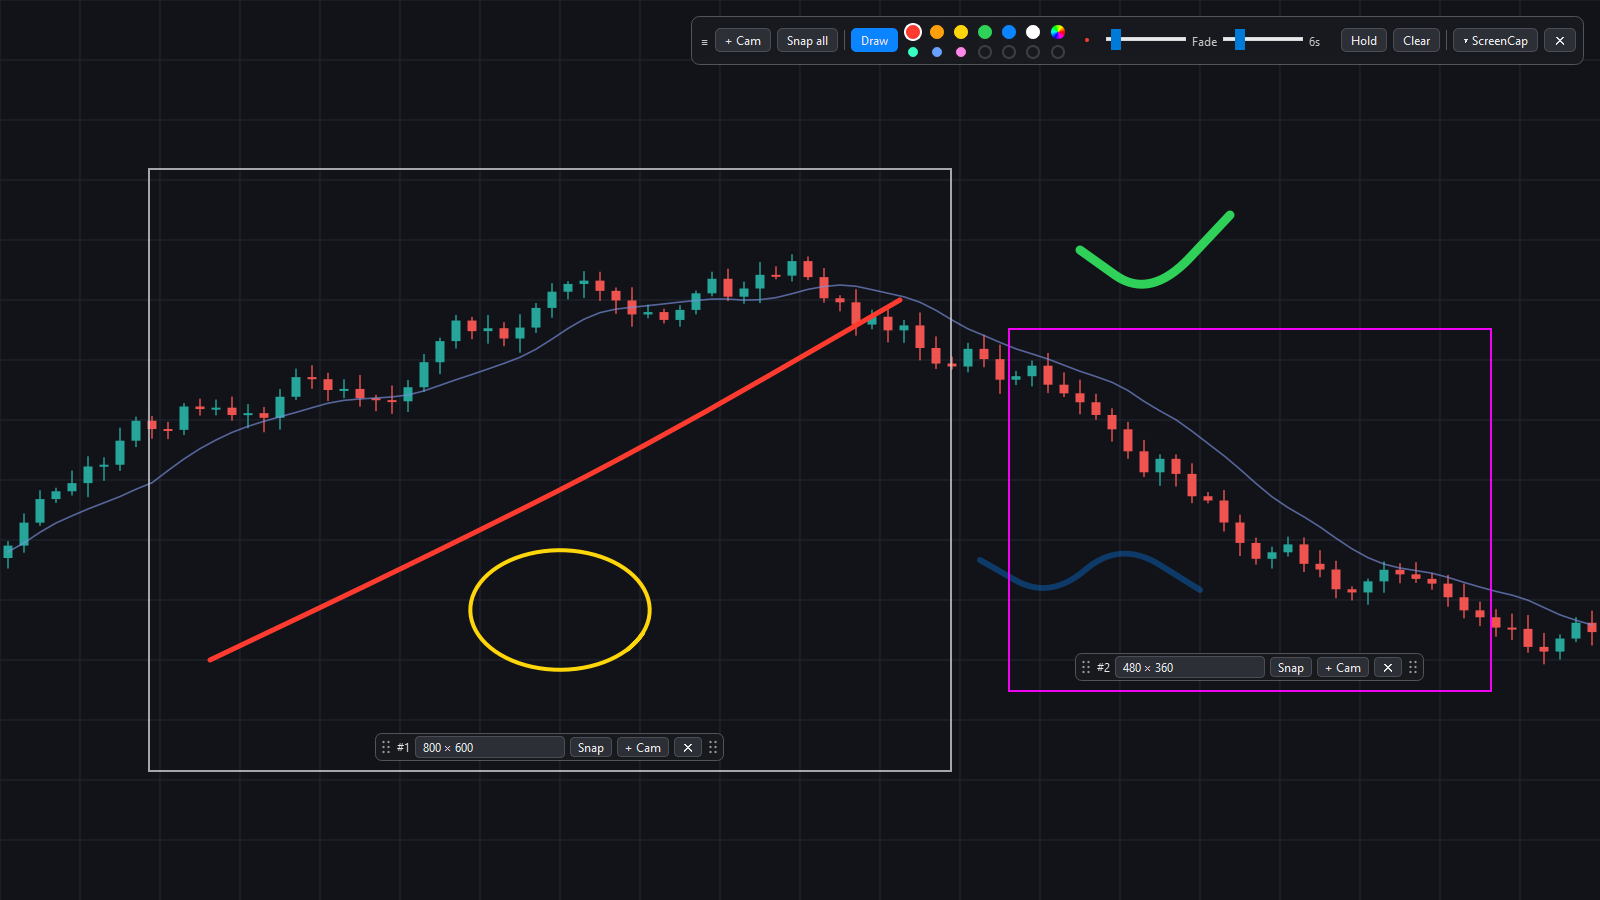
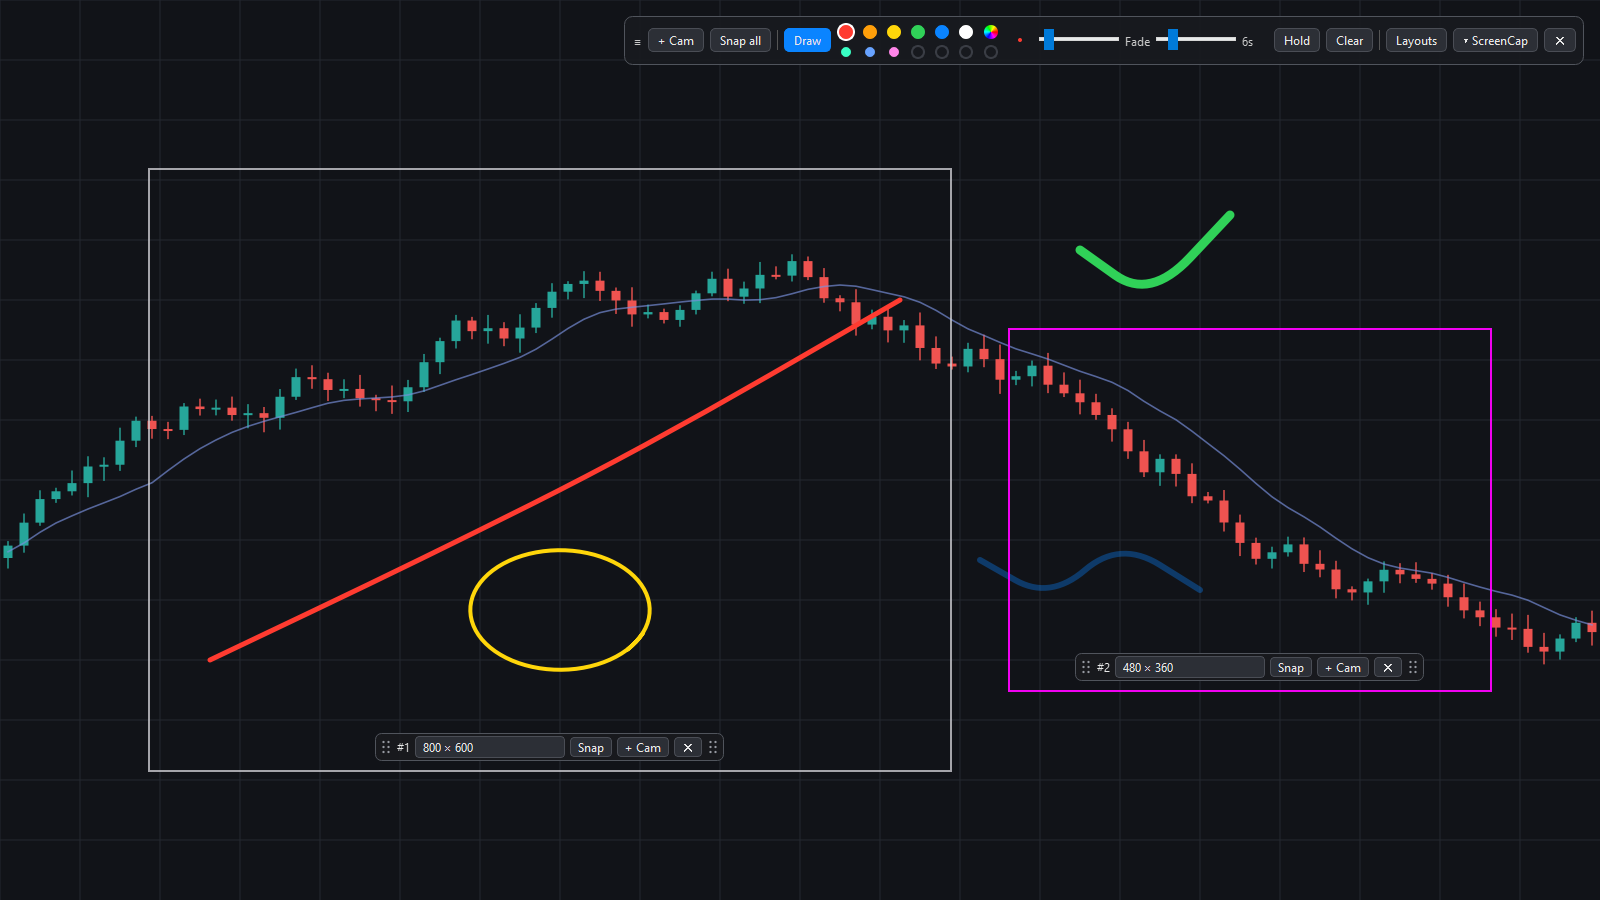
Layouts: text and toolbar images

Changed region(s): [[0.4062, 0.0311, 0.9062, 0.0622]]

diff --git a/index.html b/index.html
@@ -65,6 +65,7 @@
           <li><b>As many as you like.</b> <b>+ Cam</b> on any frame spawns another of the same size.</li>
           <li><b>Resize and move.</b> Drag the border to resize; it turns magenta when grabbed. Drag the bar to move.</li>
           <li><b>Edges stick</b> to screen and taskbar edges, and a frame cannot be pushed off the desktop.</li>
+          <li><b>Layouts.</b> Save the current cameras under a name and restore them later; positions are stored per monitor.</li>
           <li><b>Clean shots.</b> The bar fades away when not hovered, and every border and bar is hidden at capture time.</li>
           <li><b>Snap</b> one camera or <b>Snap all</b>; PNGs go to a folder and the last shot to the clipboard.</li>
         </ul>

diff --git a/README.md b/README.md
@@ -18,6 +18,8 @@ land straight in a folder.
 - Size drop-down: pixel presets up to 8K, inch and mm paper/photo sizes (at 96 px/in), or custom.
 - `+ Cam` on a bar spawns another camera of the same size.
 - Edges stick to screen and taskbar edges; a camera cannot be pushed off the desktop.
+- `Layouts` saves the current cameras under a name (for example TradingLayout) and restores them
+  later; positions are stored per monitor.
 - `Snap` saves one camera, `Snap all` saves every camera. Borders and bars of all cameras are
   hidden for the capture. The last shot is also copied to the clipboard.
 
